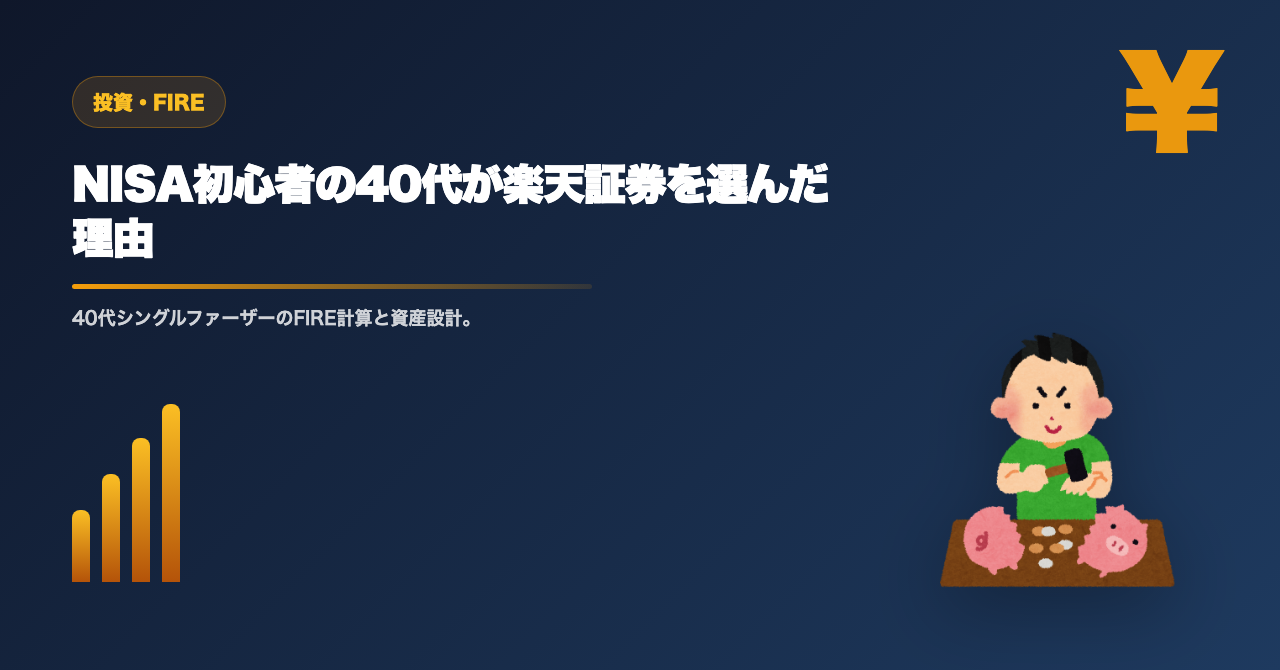
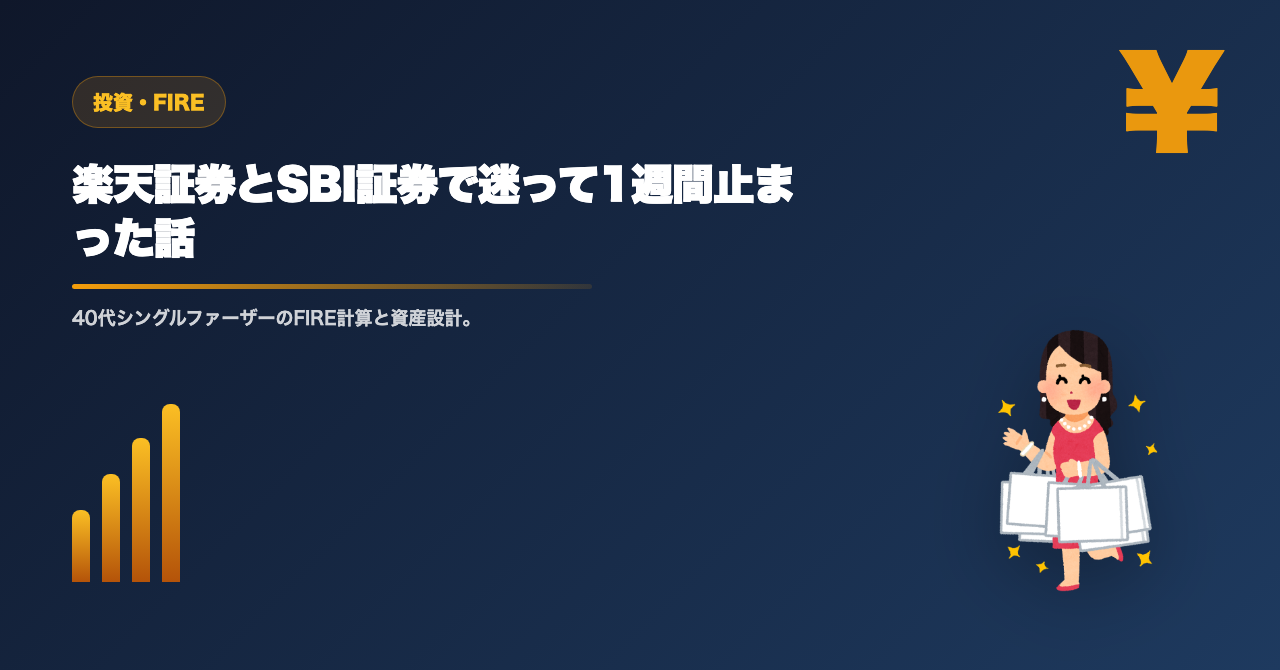
楽天証券vsSBI証券記事を「決められない人」向けに角度替え
表示0回・最終クロール6/18の沈没記事。原因は比較記事として
書かれているのに、本文自身が「機能面では大差ない」と認めており、
読者が求める比較情報を持たないまま比較の看板を掲げていたこと。
サジェストも手数料・アプリ・セキュリティ・iDeCoと網羅性勝負で、
公式・価格.com・大手金融メディアの土俵だった。

記事の資産は比較表ではなく「1週間決められなかった」実体験の方。
公式にも大手にも書けない。サジェストに「どっち 知恵袋」が出るのは
スペックではなく背中を押してほしい層がいる証拠と判断した。

- タイトル：楽天証券とSBI証券で迷って1週間止まった話（22文字）
- 主役を比較表から「30秒で決める3つの質問」の判断フローに変更
- 持っているカードで足切りする形にし、全部いいえならコインで可と明記
- 「口座は後から変えられる」を追加して決断コストを下げた
- 比較表は残すが従属的な位置に降格

編集者案の「2024」は2026年の今では即古びるため不採用。
サジェストにも存在しない。

スマホで判読不能だった旧comparison.svg（横680px設計）を削除し、
440px幅・縦積みの判断フロー図に一本化。
太字マークダウンの描画不具合2件を混入させたため同時に修正。

Changed region(s): [[0.7188, 0.4776, 0.9375, 0.8955], [0.0312, 0.2388, 0.6562, 0.3881]]

diff --git a/src/content/blog/rakuten-shoken-naze-eranda.md b/src/content/blog/rakuten-shoken-naze-eranda.md
@@ -1,8 +1,9 @@
 ---
-title: "楽天証券とSBI証券どっちがいい？NISA初心者の40代が選んだ理由"
+title: "楽天証券とSBI証券で迷って1週間止まった話"
+description: 楽天証券とSBI証券のどっちがいいか決められず、1週間も口座を開けなかった40代の実録。3つの質問で30秒で決める方法と、比較しても差がつかなかった理由を正直に書きます。
 slug: "rakuten-shoken-naze-eranda"
-description: "楽天証券とSBI証券はどっちがいいのかを、NISA初心者の40代が体験ベースで整理。楽天経済圏ユーザーがどこで決めたか、選び方の基準をわかりやすくまとめます。"
 pubDate: 2026-06-20
+updatedDate: 2026-07-20
 category: 投資・FIRE
 draft: false
 affiliate: false
@@ -10,152 +11,179 @@ ogImage: '/images/thumbnails/rakuten-shoken-naze-eranda.png'
 tags: ["楽天証券", "SBI証券", "新NISA", "楽天経済圏", "シングルファーザー"]
 ---
 
-NISAを始めようと決めて、最初に止まったのは「楽天証券とSBI証券、どっちにするか」だった。
+楽天証券とSBI証券、どっちにするか。
 
-楽天証券かSBI証券か。
-調べると情報が多すぎて、読めば読むほど決められなくなった。
-そのまま1週間、口座を開かないまま過ごした。
+比較記事を読んで、動画も見て、それでも決まらない。
 
-結論から言うと、楽天経済圏をすでに使っているなら楽天証券の方が決めやすい。
-ぼくが楽天証券にした理由も、かなりシンプルに言うとそこだった。
+わかります。ぼくは**この2択で1週間止まりました。**
 
-この記事では、楽天証券とSBI証券のどこで迷って、どこで決断したかを書く。
+その1週間でやったことは、比較サイトを何周もして、タブを閉じただけです。投資額はゼロ。増えたのはブラウザの履歴だけでした。
 
----
+先に結論を書きます。
 
-## まず結論：ぼくは楽天証券を選んだ
+**この2社は、初心者にとって決定的な差がありません。**
 
-選んだ理由は3つある。
+だから比べるほど決まらなくなります。
 
-1. **楽天銀行のマネーブリッジで資金移動が即時にできる**
-2. **楽天カードのクレカ積立でポイントが貯まる**
-3. **楽天モバイル・楽天市場・楽天カードとすでに連携できる状態にあった**
+この記事では、スペック比較ではなく**30秒で決めるための3つの質問**を書きます。
 
-要するに、「楽天経済圏をすでに使っているなら、証券口座だけ別のところにする理由が特になかった」という判断だ。
-
-難しい比較をした結果ではなく、摩擦が一番少ない選択だった。
+比較表もありますが、主役ではありません。読み終わるころには、どちらかに決まっているはずです。
 
 ---
 
-## 楽天証券とSBI証券の違いをざっくり比較
+## 比べても決まらなかった理由
 
-2つの違いをざっくり整理しておく。
+最初に、ぼくが1週間何をしていたかを書きます。
+
+比較記事を開いて、手数料を見て、ポイント還元率を見て、アプリの評判を見ました。
+
+そのたびに「なるほど」と思って、そのまま閉じました。
+
+**どの記事も、結論が「どちらもおすすめ」だったからです。**
+
+これは記事が悪いのではなくて、事実がそうなんだと今はわかります。
+
+- NISAのつみたて投資枠で買える主要なインデックスファンドは、両社とも揃っている
+- 売買手数料も同水準
+- どちらも大手で、口座数も多い
+
+**差がないものを比べ続けると、人は決められません。**
+
+ぼくは1週間、答えの出ない問題を解こうとしていました。真面目にやっているつもりで、実は一番非効率なことをしていたわけです。
+
+---
+
+## 30秒で決める3つの質問
+
+止まっていたぼくに必要だったのは、比較表ではなく**足切りの基準**でした。
+
+今のぼくが当時の自分に言うなら、この3つを順番に聞きます。
+
+![楽天証券とSBI証券を30秒で決める3つの質問。楽天カードを持っているか、三井住友カードか、普段の買い物は楽天か。全部いいえならどちらでもいい](/images/articles/rakuten-shoken-naze-eranda/kimekata-flow.svg)
+
+**質問1：楽天カードを持っていますか？**
+
+はい → 楽天証券でいいです。クレカ積立がそのまま使えます。
+
+**質問2：三井住友カード（特にゴールド以上）を持っていますか？**
+
+はい → SBI証券が有利です。クレカ積立の還元率で差が出ます。
+
+**質問3：普段の買い物は楽天市場が多いですか？**
+
+はい → 楽天証券。ポイントが同じ財布に入ります。
+
+全部「いいえ」だった人へ。
+
+**どちらでもいいです。**
+
+コインで決めてもいいくらいです。
+
+投げやりに聞こえるかもしれませんが、これが一番正直な答えだと思っています。差がないものに時間を使うより、決めて始めたほうが結果的に得をします。
+
+---
+
+## ぼくは質問1で終わりました
+
+ぼくの場合、質問1で楽天カードを持っていたので、そこで終わりでした。
+
+1週間悩んだ結論が、**手持ちのカードを見るだけで出た**ということです。
+
+ここが一番かっこ悪いところなんですが、隠さずに書いておきます。
+
+<div class="character-note">
+  <img src="/images/characters/hiroto/hiroto-character-nod.png" alt="1週間悩んだ末に手持ちのカードで決まったと気づくひろと" />
+  <p class="character-note-bubble">1週間分の比較より、財布の中身のほうが早かった。</p>
+</div>
+
+楽天証券にして実際に良かったのは、この2つです。
+
+**楽天銀行との資金移動が速い**
+
+マネーブリッジで連携しておくと、銀行から証券への移動がほぼ待ち時間なしで終わります。
+
+積立日の前に残高が足りないと気づいたとき、これに何度か助けられました。ぎりぎりで気づくタイプの人間には、地味に効きます。
+
+**新しく準備するものがなかった**
+
+SBI証券で還元率を活かそうとすると、三井住友カードを別に作る必要がありました。
+
+ぼくは楽天カードを持っていたので、口座を開くだけで全部つながりました。**作業が1つ減るかどうかは、続くかどうかにけっこう効きます。**
+
+---
+
+## 一応、比較表も置いておきます
+
+「それでも数字が見たい」という人向けに、違いをまとめておきます。
 
 | 項目 | 楽天証券 | SBI証券 |
 |---|---|---|
-| クレカ積立 | 楽天カード（0.5〜1%還元） | 三井住友カード（条件で還元率が変わる） |
-| 銀行連携 | 楽天銀行（マネーブリッジ） | SBIネット銀行（ハイブリッド預金） |
-| ポイント | 楽天ポイント | Vポイント・Pontaポイント等 |
-| アプリ | iSPEED | SBI証券アプリ |
-| 銘柄数 | 多い | より多い |
+| クレカ積立 | 楽天カード | 三井住友カード |
+| 銀行連携 | 楽天銀行（マネーブリッジ） | 住信SBIネット銀行 |
+| 貯まるポイント | 楽天ポイント | Vポイント・Pontaなど |
+| iDeCoの品揃え | 標準的 | 充実している |
+| 取扱ファンド数 | 多い | より多い |
 
-正直に言うと、どちらも機能面では大差ない。
+見てのとおり、**初心者が最初に触る部分では差が出ません。**
 
-NISAのつみたて投資枠で選べるインデックスファンドは、両社ともeMAXIS Slimシリーズが揃っている。
-手数料も同水準だ。
-「どちらが明確に優れているか」という問いへの答えは、初心者にとっては「どちらでも大差ない」になる。
+差が出るのは、iDeCoを本格的にやりたい人や、幅広い銘柄を売買したい人です。
 
-![楽天証券とSBI証券の比較：楽天経済圏ユーザーには楽天証券が自然にフィットする](/images/articles/rakuten-shoken-naze-eranda/comparison.svg)
+つみたて投資枠でインデックスファンドを毎月買うだけなら、どちらでも同じ結果になります。
 
 ---
 
-## 楽天経済圏ユーザーのぼくが楽天証券にした理由
+## 後から変えられるので、間違えても大丈夫です
 
-「どちらでも大差ない」なら、自分がすでに使っているサービスと合わせる方が動きやすい。
+もう1つ、当時のぼくが知らなかったことを書いておきます。
 
-ぼくの場合、楽天銀行・楽天カード・楽天モバイルをすでに使っていた。
-この状態で楽天証券を選ぶと、何が変わるかというとこういうことだ。
+**証券口座は後から変えられます。**
 
-**①マネーブリッジで積立資金の補充が楽になる**
+NISA口座も、金融機関の変更手続きをすれば移せます。手間はかかりますが、一生そこに縛られるわけではありません。
 
-楽天銀行と楽天証券をマネーブリッジで連携すると、資金移動がほぼリアルタイムでできる。
-NISAの積立分が足りないとき、銀行→証券への移動で待たされることがなくなった。
+ぼくは「一度決めたら変えられない」と思い込んでいました。だから慎重になりすぎた。
 
-設定は一度やれば、あとは完全放置でいい。
+実際は、**取り返しがつく判断に1週間を使っていた**だけでした。
 
-**②楽天カードのクレカ積立でポイントが貯まる**
+取り返しがつかないのは、選択を間違えることではなくて、始めないまま時間が過ぎることのほうです。
 
-楽天カードで積立設定をすると、積立額に応じてポイントが付く。
-ぼくは毎月3万円積み立てているが、放置していても月150〜300ポイントほどが積み上がっている。
-
-積み立てながらポイントが貯まる、という構造が「楽天経済圏をまとめて使う」ことで成立する。
-
-**③入り口が少ない**
-
-SBI証券の場合、三井住友カードのクレカ積立を活用しようとすると、カードを別途作る必要がある。
-ぼくの場合、楽天カードはすでに持っていたので、証券口座を開くだけで全部つながった。
-
-「何かを新しく準備する」ステップがなかった。これは地味に大きかった。
-
-<div class="character-note">
-  <img src="/images/characters/hiroto/hiroto-character-nod.png" alt="うなずくひろと" />
-  <p class="character-note-bubble">楽天経済圏ユーザーが楽天証券を選ぶのは、正直「そうするしかない」に近い結論だった</p>
-</div>
+インデックス投資は、どこで買うかより何年続けたかで結果が変わります。ぼくが失った1週間分は、もう戻ってきません。
 
 ---
 
-## 逆にSBI証券が向いている人
+## 決めたあとにやること
 
-楽天証券を選んだぼくが言うのも変だが、SBI証券が向いている人は普通にいる。
-
-- **三井住友カード（ゴールド・プラチナ）をすでに持っている人**
-  クレカ積立の還元率が最大5%になるため、楽天カードの0.5〜1%より有利になるケースがある
-
-- **iDeCoを重視している人**
-  iDeCoの商品ラインナップはSBI証券の方が充実している
-
-- **銘柄の選択肢を広く持ちたい人**
-  取り扱いファンド数はSBI証券の方が多い
-
-- **楽天経済圏を使っていない人**
-  楽天銀行・楽天カードを使っていないなら、楽天証券の優位性はほぼなくなる
-
-ポイントをまとめると、「使っている銀行・クレジットカードとエコシステムが合っている方を選ぶ」が正解に近い。
-
----
-
-## 証券口座選びで止まりすぎない方がいい理由
-
-「楽天かSBIか」で止まっていた1週間、ぼくは何もできなかった。
-
-でも実際に積み立てを始めてわかったのは、**証券会社を選ぶことより、積み立てを始めることの方がはるかに大事だった**ということだ。
-
-インデックス投資のリターンは、証券会社の違いよりも「いつ始めたか」「何年続けたか」の方が大きく影響する。
-
-どちらを選んでも、後から口座を移すこともできる。
-完璧な選択を探して止まり続けるより、動いてしまう方がいい。
-
-迷っているなら、自分が今使っているサービスに合わせて決めてしまえばいい。
-ぼくはそうした。
-
----
-
-## 口座を開いたら次にやること
-
-楽天証券を選んだ後、実際に口座を開いて積立設定をするまでの流れはこの順番で進めた。
+決まったら、次はこの順番で進めれば迷いません。
 
 1. [楽天証券の口座開設にかかった時間と手順【実録】](/blog/rakuten-shoken-koza-kaisetsu/)
-2. [楽天証券でNISA積立を設定した手順【実録】](/blog/rakuten-shoken-tsumitate-settei/)
+2. [楽天証券のNISA積立設定のやり方｜初心者が迷った手順を実録](/blog/rakuten-shoken-tsumitate-settei/)
 
-ぼくと同じように楽天証券で始めるなら、ここから口座開設できます。
+口座が使えるようになるまで1週間ほどかかるので、申し込みだけ先に出しておくと待ち時間を無駄にしません。
+
+ぼくと同じ楽天証券で始めるなら、ここから開設できます。
 
 <a href="https://ad2.trafficgate.net/t/r/1230/738/317992_397371" target="_blank" rel="nofollow sponsored noopener noreferrer">楽天証券でNISA口座を開設する（PR）</a>
 
-積み立てる金額の考え方はここで整理している。
+積立額をいくらにするかで、また止まりそうな人はこちらです。
 
-→ [新NISAは月1万円でも意味ある？40代が続けてわかったこと](/blog/nisa-tsumitate-40dai/)
+→ [新NISA月1万円で十分？40代が出した結論](/blog/nisa-tsumitate-40dai/)
 
-→ [新NISAはいくらから？投資額の決め方3ステップ](/blog/2026-06-08-nisa/)
+→ [新NISAいくらから？40代の積立額の決め方3ステップ](/blog/2026-06-08-nisa/)
 
 ---
 
 ※この記事はぼく個人の体験談・調査に基づく情報です。投資・保険・金融商品の判断は自己責任でお願いします。必要に応じてFP等の専門家にご相談ください。
 
-## まとめ：迷うより「使っているサービスに合わせる」が正解に近い
+## まとめ
 
-- 楽天証券とSBI証券は、機能面では初心者にとって大差ない
-- 楽天経済圏ユーザーなら楽天証券一択に近い。摩擦がない
-- SBI証券は三井住友カード・iDeCoを重視する人に向いている
-- 証券会社選びに1週間使うより、決めて積み立てを始める方が大事
+- 楽天証券とSBI証券は、初心者が触る範囲では差が出ない。だから比べるほど決まらない
+- 決め手はスペックではなく「今持っているカード」。3つの質問で30秒で終わる
+- ぼくは質問1で終わった。1週間悩んだ答えが、財布の中にあった
+- 口座は後から変えられる。取り返しのつく判断に時間をかけすぎない
 
-→ まず自分が使っている銀行・クレジットカードを確認して、エコシステムが合う方を選ぼう。
+今日やることを1つだけ選ぶなら、これです。
+
+**財布を開いて、カードを見てください。**
+
+楽天カードがあれば楽天証券、三井住友カードならSBI証券。どちらもなければ、好きなほうで大丈夫です。
+
+比較サイトをもう1周する時間があるなら、その時間で申し込みが終わります。ぼくの1週間を、繰り返さないでください。